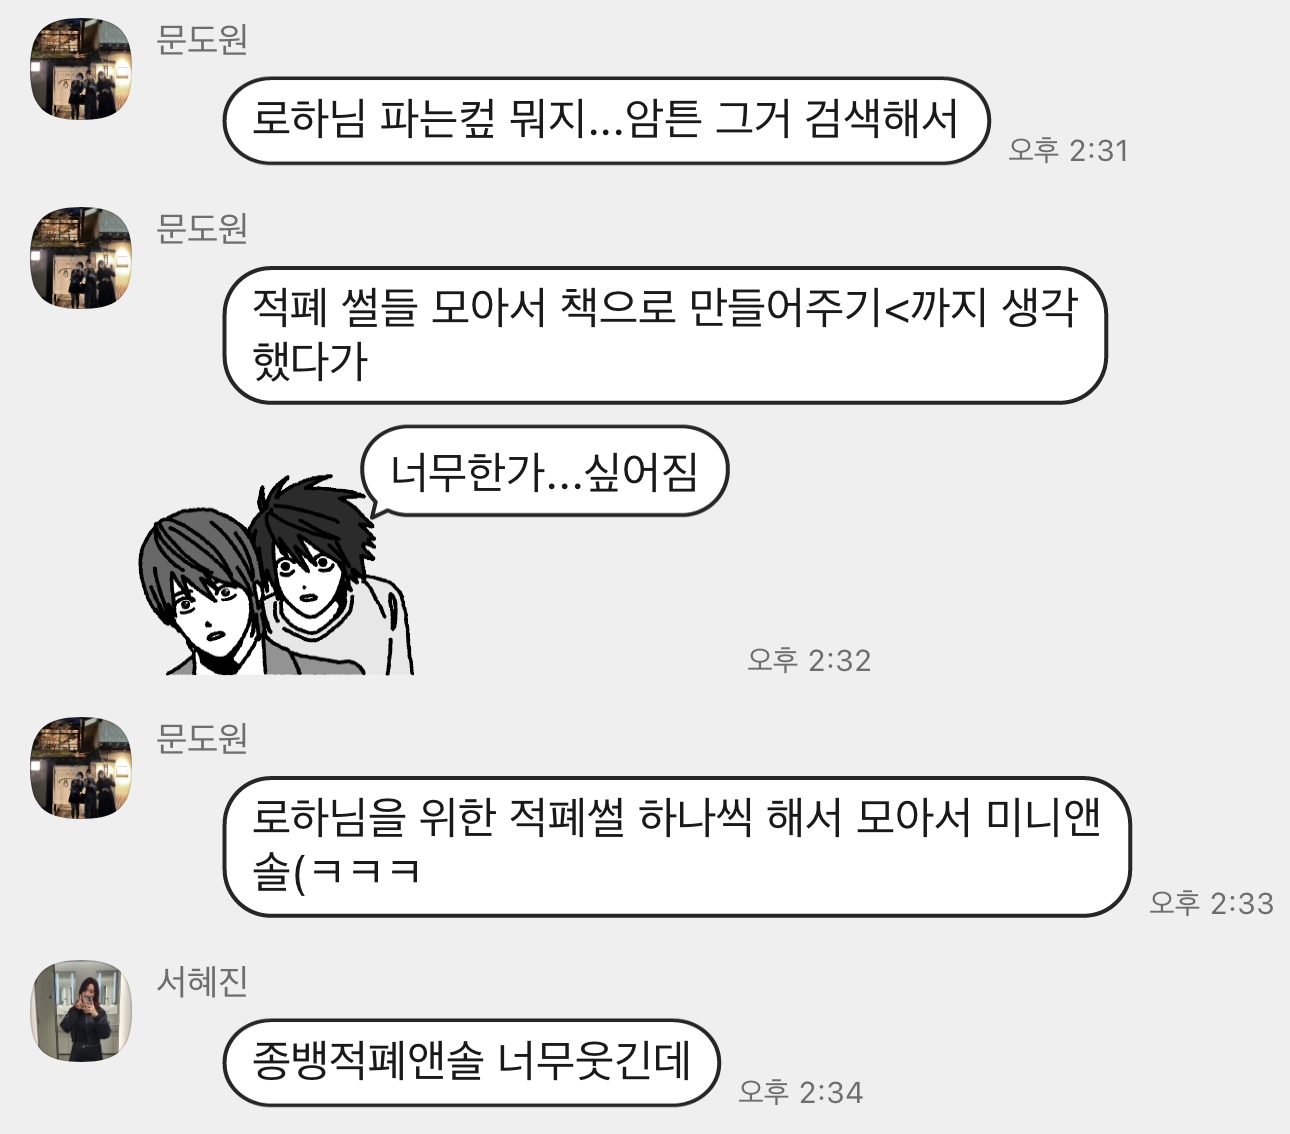
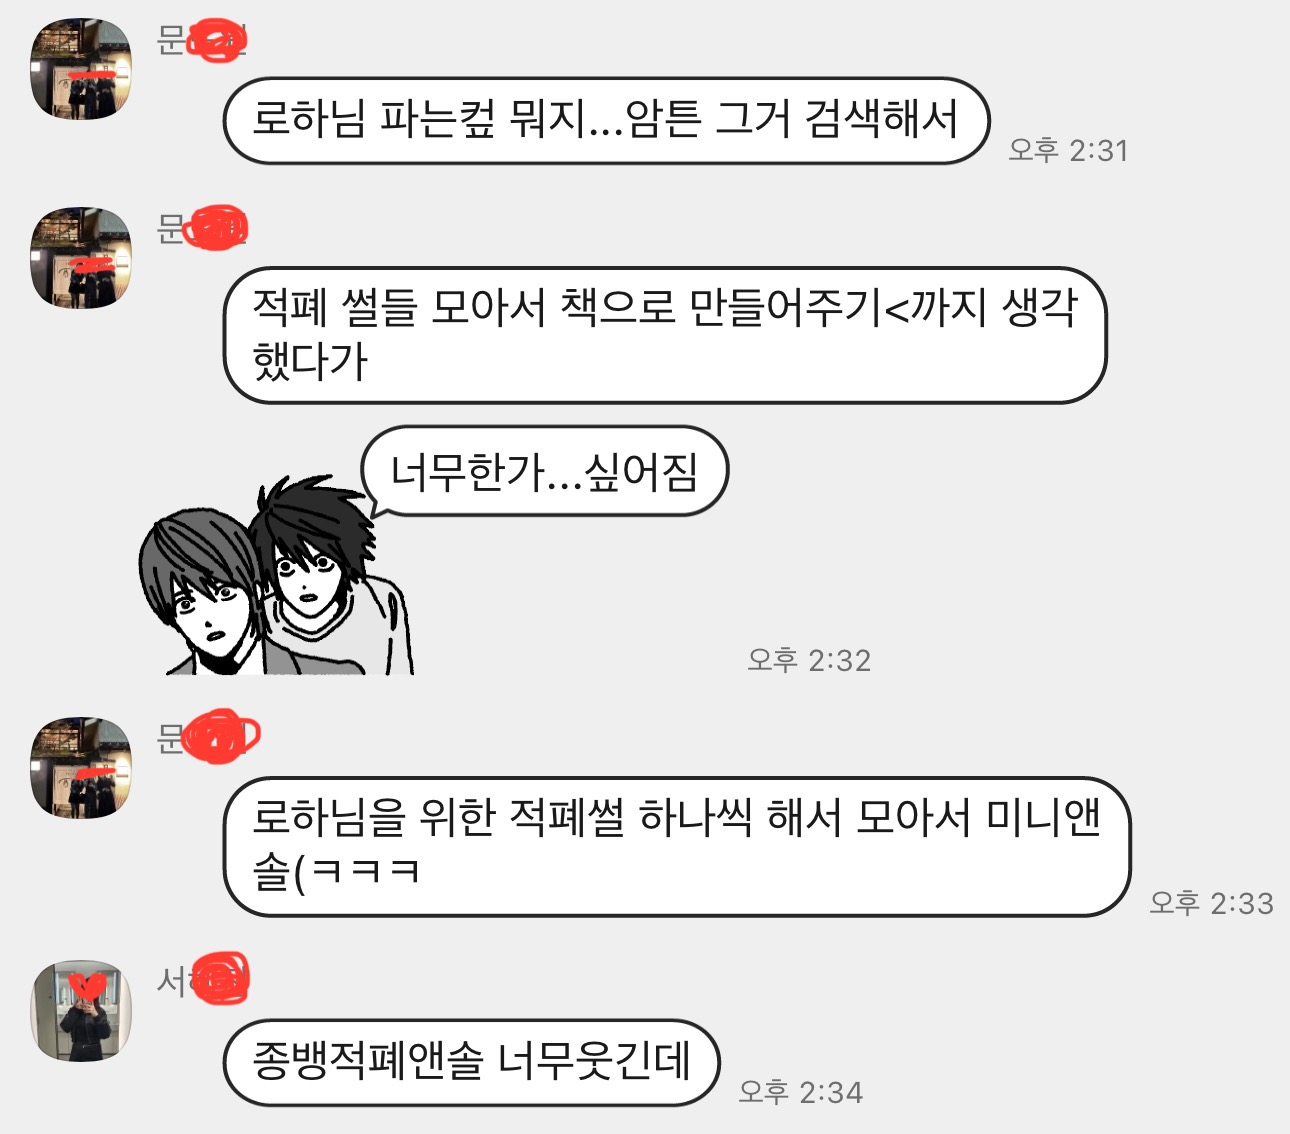
랴ㅜ

diff --git a/index.html b/index.html
@@ -107,7 +107,7 @@
                         </a>
                         <a href="./ssul06.html">
                             <div class="thumb_wrap">
-                                <span class="writer">문도원</span>
+                                <span class="writer">문모씨</span>
                                 <img class="img_thumb" src="./img/img_thumb2.png" alt="썸네일">
                             </div>
                             <p class="ssul_tit">종뱡유곽썰</p>
@@ -115,7 +115,7 @@
                         </a>
                         <a href="./ssul07.html">
                             <div class="thumb_wrap">
-                                <span class="writer">디뻣</span>
+                                <span class="writer">스벅</span>
                                 <img class="img_thumb" src="./img/img_thumb07.jpeg" alt="썸네일">
                             </div>
                             <p class="ssul_tit">종뱅 오피스</p>

diff --git a/ssul06.html b/ssul06.html
@@ -33,7 +33,7 @@
                 <div class="cont">
                     <div class="desc_area">
                         <h2>종뱡유곽썰</h2>
-                        <p class="nickname">문도원</p>
+                        <p class="nickname">문모씨</p>
                         <ul>
                             <li>#종뱅</li>
                             <li>#유곽</li>

diff --git a/ssul07.html b/ssul07.html
@@ -33,7 +33,7 @@
                 <div class="cont">
                     <div class="desc_area">
                         <h2>종뱅 오피스</h2>
-                        <p class="nickname">디뻣</p>
+                        <p class="nickname">스벅</p>
                         <ul>
                             <li>#종뱅</li>
                             <li>#리맨물</li>
